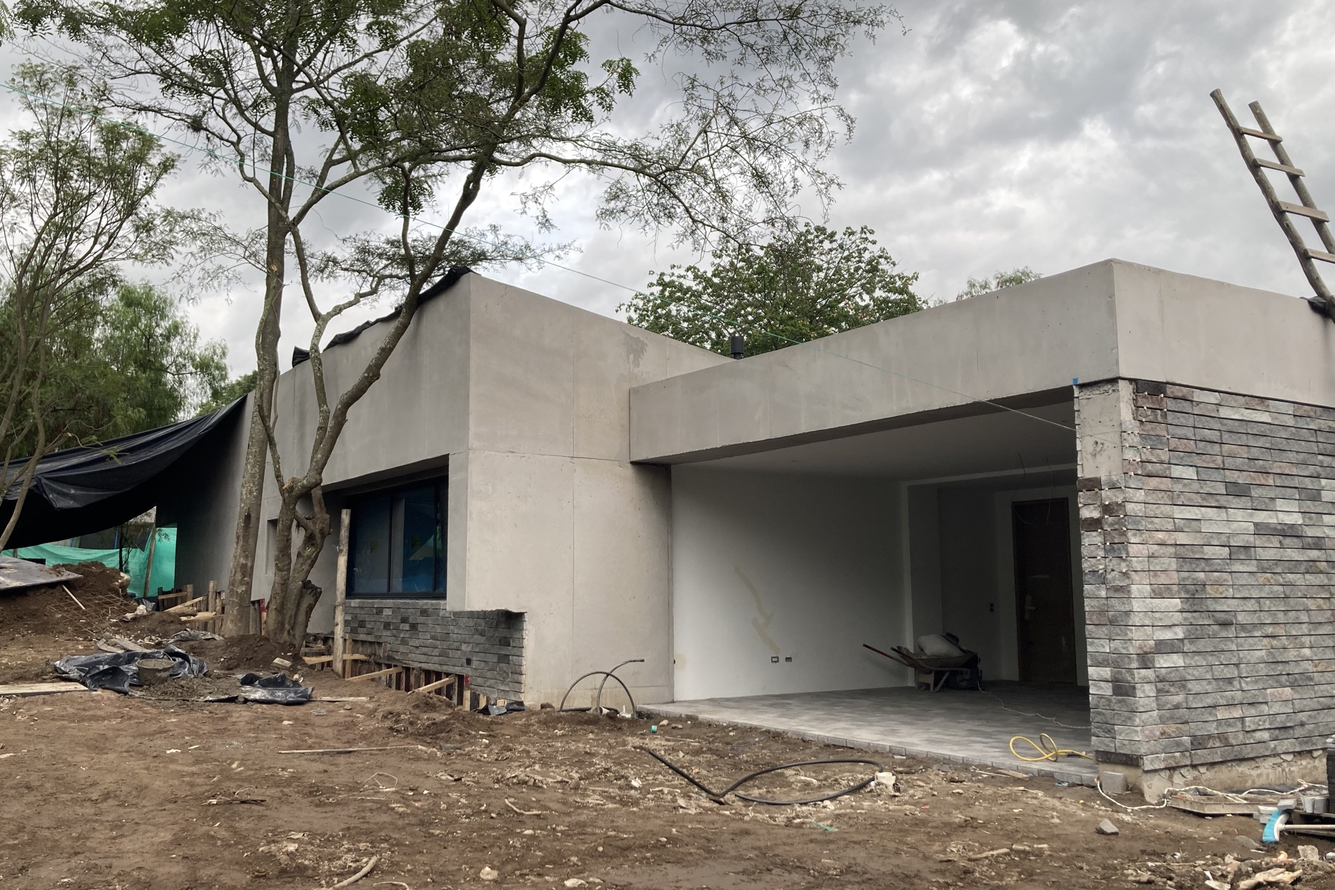
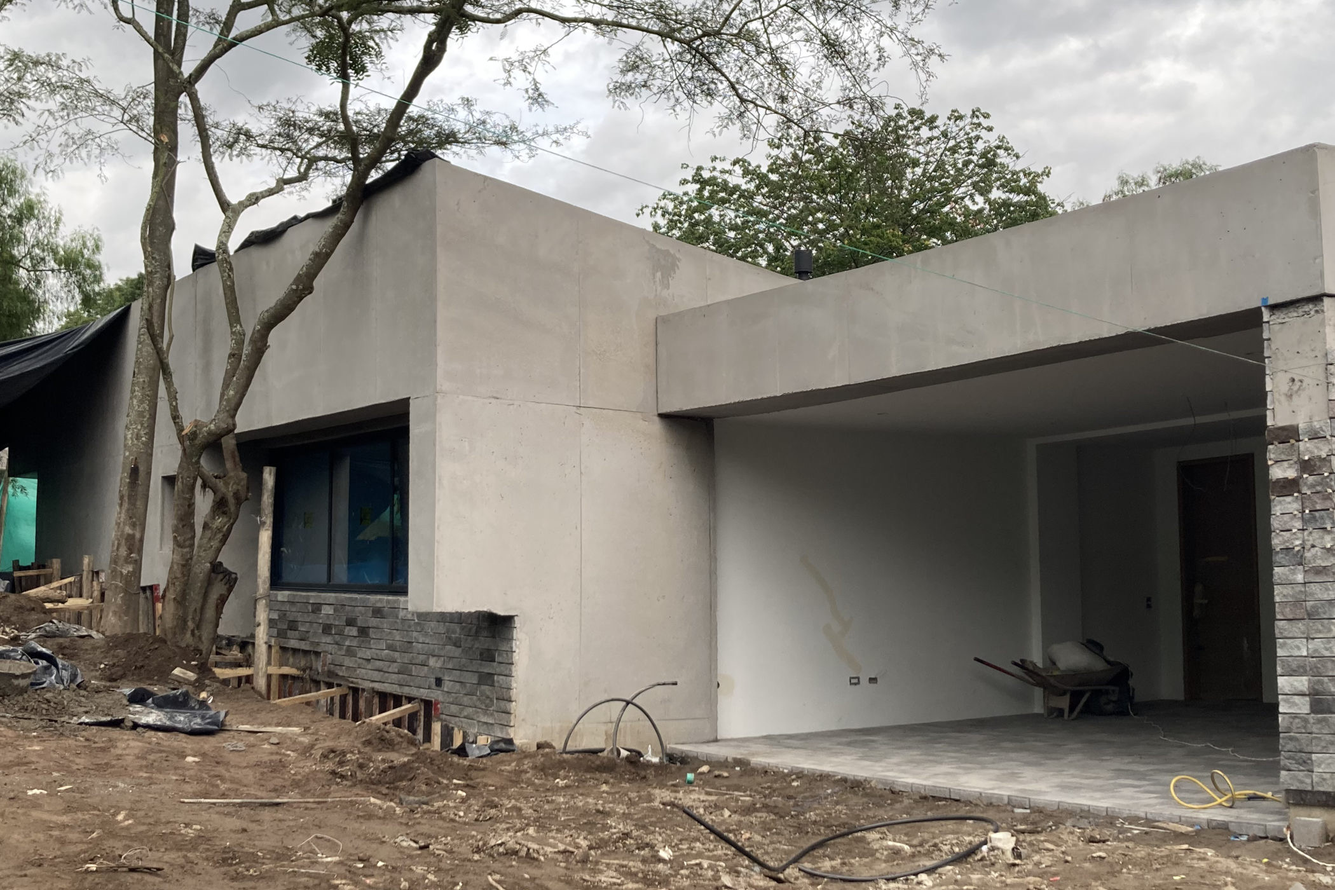
Inicio: obra a la izquierda y terminado a la derecha, con la foto de obra alineada en perspectiva a la terminada

diff --git a/src/BeforeAfter.jsx b/src/BeforeAfter.jsx
@@ -1,15 +1,15 @@
 import { useRef, useState } from 'react'
 
-// Comparador antes/después: la barra sigue al mouse (o al dedo al arrastrar).
-// Izquierda de la barra = `after` (terminado), derecha = `before` (en obra):
-// al mover de izquierda a derecha se revela la obra terminada.
-export default function BeforeAfter({ before, after, beforeLabel, afterLabel }) {
+// Comparador de dos fotos alineadas: la barra sigue al mouse (o al dedo al arrastrar).
+// `left` se ve a la izquierda de la barra y `right` a la derecha.
+// En el inicio: izquierda = en obra, derecha = terminado; al mover hacia la derecha se ve más obra.
+export default function BeforeAfter({ left, right, leftLabel, rightLabel }) {
   const ref = useRef(null)
   const [pos, setPos] = useState(50)
 
   const moveTo = (clientX) => {
-    const { left, width } = ref.current.getBoundingClientRect()
-    setPos(Math.min(100, Math.max(0, ((clientX - left) / width) * 100)))
+    const { left: x0, width } = ref.current.getBoundingClientRect()
+    setPos(Math.min(100, Math.max(0, ((clientX - x0) / width) * 100)))
   }
 
   const onPointerMove = (e) => {
@@ -31,21 +31,21 @@ export default function BeforeAfter({ before, after, beforeLabel, afterLabel }) 
       onKeyDown={onKeyDown}
       role="slider"
       tabIndex={0}
-      aria-label="Comparar obra en proceso y terminada"
+      aria-label={`Comparar: ${leftLabel} a la izquierda, ${rightLabel} a la derecha`}
       aria-valuemin={0}
       aria-valuemax={100}
       aria-valuenow={Math.round(pos)}
     >
-      <img src={before.src} alt={before.alt} className="ba-img" fetchPriority="high" draggable="false" />
+      <img src={right.src} alt={right.alt} className="ba-img" fetchPriority="high" draggable="false" />
       <img
-        src={after.src}
-        alt={after.alt}
+        src={left.src}
+        alt={left.alt}
         className="ba-img"
         style={{ clipPath: `inset(0 ${100 - pos}% 0 0)` }}
         draggable="false"
       />
-      <span className="ba-label ba-label-left">{afterLabel}</span>
-      <span className="ba-label ba-label-right">{beforeLabel}</span>
+      <span className="ba-label ba-label-left">{leftLabel}</span>
+      <span className="ba-label ba-label-right">{rightLabel}</span>
       <div className="ba-bar" style={{ left: `${pos}%` }}>
         <span className="ba-handle" aria-hidden="true">‹ ›</span>
       </div>

diff --git a/src/App.jsx b/src/App.jsx
@@ -65,10 +65,10 @@ export default function App() {
       <main>
         <section id="inicio" className="hero">
           <BeforeAfter
-            before={{ src: '/img/hero/casa-aj-obra.jpg', alt: 'Casa AJ durante la construcción, en obra gris' }}
-            after={{ src: '/img/hero/casa-aj-final.jpg', alt: 'Casa AJ terminada: volúmenes de hormigón visto y muro de ladrillo' }}
-            beforeLabel="En obra"
-            afterLabel="Terminado"
+            left={{ src: '/img/hero/casa-aj-obra.jpg', alt: 'Casa AJ durante la construcción, en obra gris' }}
+            right={{ src: '/img/hero/casa-aj-final.jpg', alt: 'Casa AJ terminada: volúmenes de hormigón visto y muro de ladrillo' }}
+            leftLabel="En obra"
+            rightLabel="Terminado"
           />
           <div className="hero-text">
             <h1>Joaquín Andrade</h1>
@@ -81,7 +81,7 @@ export default function App() {
           <h3 className="subhead">Proyecto propio</h3>
           <Grid items={propios} />
           <h3 className="subhead">Jefe de obra en Arq. Buró</h3>
-          <p className="muted intro">Viviendas diseñadas por Diez + Muller y construidas por Arq. Buró, donde dirijo la obra en sitio.</p>
+          <p className="muted intro">Obras diseñadas por Diez + Muller y construidas por Arq. Buró, donde trabajo como jefe de obra.</p>
           <Grid items={obras} />
         </section>
 

diff --git a/CLAUDE.md b/CLAUDE.md
@@ -129,13 +129,13 @@ Remodelación de vivienda: interiores con cielo de madera y vigas, arcos nuevos,
 | `src/App.jsx` | Página única con anclas: header fijo (Proyectos, Académico, Sobre mí, Contacto) → hero → Proyectos ("Proyecto propio" + "Jefe de obra en Arq. Buró") → Académico → Sobre mí → Contacto → footer. `Grid` pinta tarjetas; si el proyecto tiene `fotos`, la tarjeta es un botón que abre el `Lightbox`. |
 | `src/proyectos.js` | **Todos los datos**: `propios`, `obras`, `academicos` (nombre, tipo, año, ubicación, crédito, resumen, portada, alt, fotos). `galeria(slug, alts)` arma la lista de fotos: un texto alternativo por foto, en orden. |
 | `src/Lightbox.jsx` | Visor a pantalla completa: flechas, teclado (← → Esc), deslizar en celular, tira de miniaturas, pie de foto = alt, precarga de vecinas, bloqueo de scroll. |
-| `src/BeforeAfter.jsx` | Comparador antes/después: la barra sigue al mouse sin clic; en táctil se arrastra; flechas del teclado ±5 %. Izquierda de la barra = `after` (terminado), derecha = `before` (en obra). Usa `clip-path` sobre la imagen `after`. |
+| `src/BeforeAfter.jsx` | Comparador: la barra sigue al mouse sin clic; en táctil se arrastra; flechas ±5 %. Props `left`/`right` + `leftLabel`/`rightLabel`; `clip-path` sobre la imagen `left`. **Izquierda = En obra, derecha = Terminado** (pedido de Joaquín). |
 | `src/index.css` | Estilos globales con variables en `:root` (`--bg`, `--fg`, `--muted`, `--ph`, `--gutter`) + clases `.ba-*` del comparador y `.contact`. |
 | `public/img/hero/` | `casa-aj-obra.jpg` y `casa-aj-final.jpg`, 2100×1400, calidad ~75. |
 | `public/img/obras/`, `public/img/academico/` | Portadas de tarjeta 1200×900 (4:3). |
 | `public/img/<slug>/` | Galería de cada proyecto: `NN.jpg` (fotos 1600 px; láminas 2000 px) + `NN-t.jpg` (miniatura 400 px). Orden: terminado primero, proceso al final. ~40 MB en total. |
 
-- **Hero (hecho)**: comparador de **Casa AJ** — `WORK/CASA AJ/ajviejo.HEIF` (en obra) vs `ajnuevo.JPEG` (terminada). La foto de obra se recortó a 3:2 para alinearla con la final; la altura coincide, pero queda ~10 % de desfase horizontal porque no se tomaron desde el mismo punto. Si Joaquín consigue una foto de obra con el mismo encuadre, reemplazarla. Etiquetas: "Terminado" (izq.) / "En obra" (der.). El texto de nombre + frase va debajo de la imagen.
+- **Hero (hecho)**: comparador de **Casa AJ** — `WORK/CASA AJ/ajviejo.HEIF` (en obra) vs `ajnuevo.JPEG` (terminada). Las fotos se tomaron desde puntos distintos, así que la de obra se **deformó para calzar** con la terminada con `~/Desktop/pdf-tools/alinear.mjs` (homografía optimizada por correlación de bordes + corrección suave de 2.º grado con block matching; el modo thin-plate spline ondula la fachada, no usarlo). Encuadre: 3:2, parte izquierda/central de la foto terminada (el muro lateral de ladrillo no aparece en la foto de obra). La fachada (losa, pilar, ventana, muro bajo) calza; árboles y suelo no pueden calzar por la paralaje. Salida 2100×1400. Etiquetas: "En obra" (izq.) / "Terminado" (der.).
 - **Contacto (hecho)**: email `jsandrade10@gmail.com` (`mailto:`), teléfono `099 275 4846` (`tel:+593992754846`) y enlace a WhatsApp (`https://wa.me/593992754846`). Faltan LinkedIn/Instagram y CV.
 - **Proyectos (hecho)**: los 14 proyectos tienen portada y galería. Casa FR: todas sus fotos son de obra gris. Campos `null` = PENDIENTE y no se muestran.
 - **Pendiente**: Sobre mí (foto de perfil, línea de tiempo), frase de presentación del hero.
@@ -190,4 +190,5 @@ Antes de redactar los textos finales, pedir para cada obra de WORK: **ubicación
 - **2026-11-08 (cont.)** — Joaquín curó todo el material y aclaró roles: YM = proyecto propio; WORK = jefe de obra en Arq. Buró, diseño de Diez + Muller; UNI = T4–T8 + Tesis (Mundaneum Beirut). La web ahora separa "Proyecto propio" y "Jefe de obra en Arq. Buró" con créditos en cada tarjeta, y Académico lista T4 → Tesis.
 - **Siguiente paso**: extraer láminas de los PDF (hace falta una herramienta; propuesta: paquete npm `mupdf`, WASM sin compilación, instalado fuera del repo) para las portadas académicas; luego páginas de proyecto.
 - **2026-11-08 (cont. 2)** — Joaquín confirmó "Jefe de obra", permiso para todas las fotos, años de T6/T7 (2021) y Tesis (2022), YM = Quito 2025. Se instaló mupdf en `~/Desktop/pdf-tools`, se extrajeron texto y vistas de los 34 PDF (182 págs.), y se armaron galerías con visor para los 14 proyectos (8 obras + 6 académicos), con resúmenes de concepto sacados de las láminas. Portada de YM cambiada a `03.jpg` (arco y vano de doble altura).
+- **2026-11-08 (cont. 3)** — Académico: solo entregas finales (se quitaron análisis, anteproyectos y proceso; T8 ahora muestra recortes de su lámina final y ya no lleva el crédito de K. Pazmiño porque ese material no se muestra). Textos corregidos. Hero invertido (obra a la izquierda) y fotos alineadas.
 - **Siguiente paso sugerido**: revisar el sitio en el navegador (celular y escritorio); textos "En pocas palabras" por obra; Sobre mí (foto, línea de tiempo: USFQ (año de ingreso PENDIENTE)–2022, Portugal 2022, Arq. Buró); frase del hero; páginas de proyecto individuales si hacen falta.
